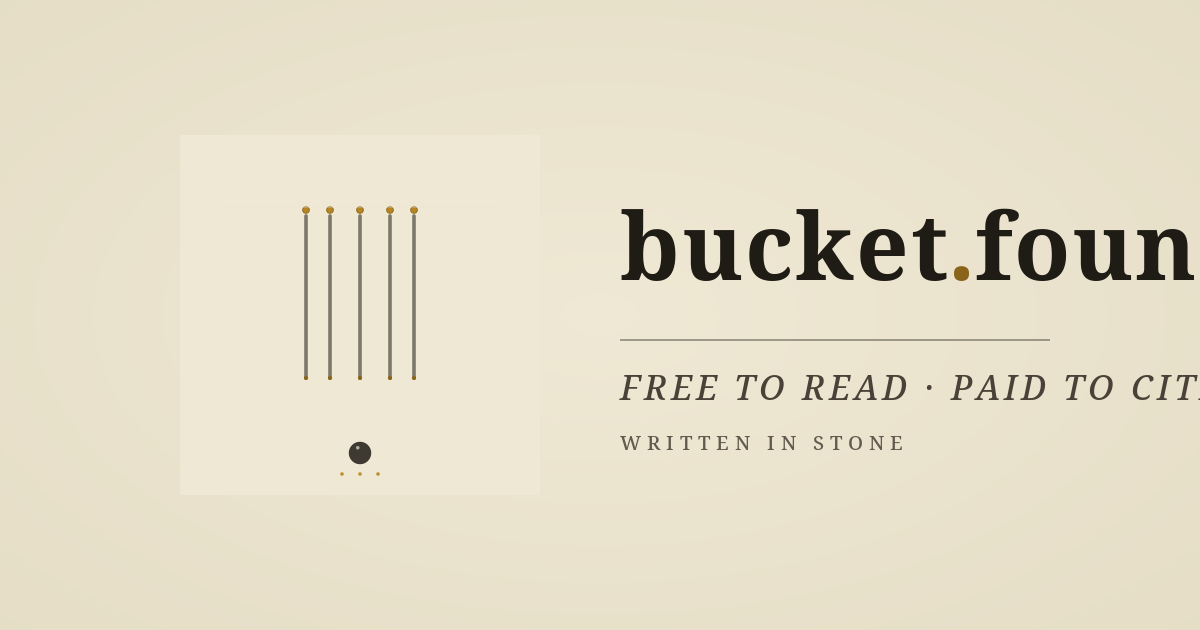
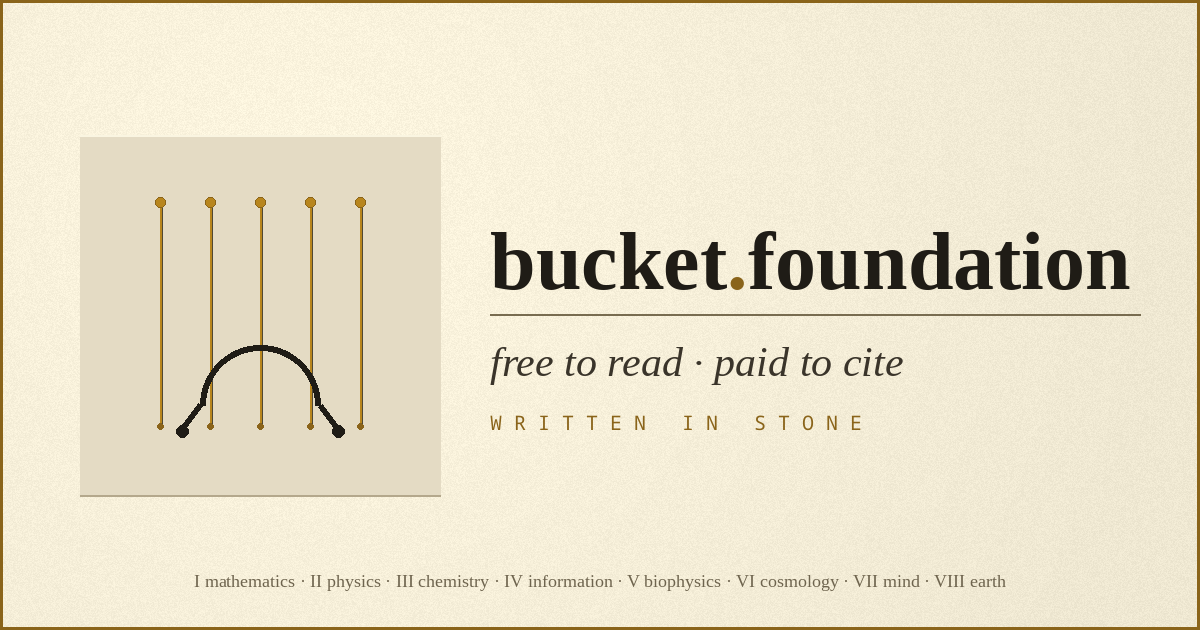
fix(meta): OG/Twitter share image — full wordmark fits, canon branches rail
- Regenerate opengraph-image.png + twitter-image.png at 1200x630
  with wordmark auto-sized to 82px so "bucket.foundation" fits inside
  the frame (previously cut off at "bucket.foun")
- Add inverse-omega-lyre logo on left plinth, tagline rule + italic
  "free to read · paid to cite", "written in stone" caption, and
  8-branch canon rail at bottom
- layout.tsx: drop explicit openGraph.images / twitter.images arrays
  (pointed to /opengraph-image.png at public-root, which doesn't
  exist, and /brand/tagline-stone.png, also missing). Next.js 14
  auto-wires src/app/opengraph-image.png + twitter-image.png via
  file convention — cleaner and actually correct.
- gitignore gtm/video-v*/ (build artifacts mirror to gdrive, not git)
- BEAD_BACKLOG.md: 11 beads across bucket-foundation +
  x402-research-gateway + feed402 to unblock external dev
  participation (P1 chain: host gateway, real wallet, wire /research,
  /build landing)

diff --git a/src/app/layout.tsx b/src/app/layout.tsx
@@ -81,29 +81,14 @@ export const metadata: Metadata = {
     title: `${SITE_NAME} — ${TAGLINE}`,
     description: DESCRIPTION,
     locale: "en_US",
-    images: [
-      {
-        url: "/opengraph-image.png",
-        width: 1200,
-        height: 630,
-        alt: "bucket.foundation — the golden omega-lyre carved in aegean stone · free to read, paid to cite",
-        type: "image/png",
-      },
-      {
-        url: "/brand/tagline-stone.png",
-        width: 1536,
-        height: 1024,
-        alt: "FREE TO READ / PAID TO CITE — carved in bone limestone with hot-gold inlay",
-        type: "image/png",
-      },
-    ],
+    // opengraph-image.png at src/app/ is auto-wired by Next.js file convention
   },
   twitter: {
     card: "summary_large_image",
     title: `${SITE_NAME} — ${TAGLINE}`,
     description: DESCRIPTION,
     creator: "@gianyrox",
-    images: ["/twitter-image.png"],
+    // twitter-image.png at src/app/ is auto-wired by Next.js file convention
   },
   robots: {
     index: true,

diff --git a/BEAD_BACKLOG.md b/BEAD_BACKLOG.md
@@ -1,0 +1,87 @@
+# Bead Backlog — "Make the Stack Participable"
+
+Filed 2026-04-23. Nucleus API currently 401'd on `/api/portfolio/dispatch` (nginx basic-auth rejecting founder creds — see CLAUDE.md Strategic Priority "bkt-epic-infra"). These will be filed via `bd-remote` once that's unblocked. Priority 1 = blocker for external-dev / agent participation.
+
+## Stack Reality Check (what works, what doesn't — 2026-04-23)
+
+| Component | State | Blocker for external participation? |
+|-----------|-------|-------------------------------------|
+| bucket.foundation site | ✅ live at www.bucket.foundation, v0.2.0, mobile-responsive | No |
+| bucket-foundation repo | ✅ public (github.com/bucket-foundation/bucket-foundation) | Needs CONTRIBUTING + .env.example + dev quickstart |
+| feed402 spec + ref impl | ✅ public (gianyrox/feed402), boots locally, manifest valid | Wallet=0x000…, no hosted demo, no Docker one-liner |
+| x402-research-gateway | ✅ public code (gianyrox/x402-research-gateway), compiles | **Not hosted anywhere.** No agent can actually pay the rail. |
+| Viatika vendor integration | ✅ vendor live, we're a customer | Not ours to ship |
+| Story Protocol / Walrus mint path | ❓ code exists, no docs for canon submitters | Submission path unclear |
+
+**Blocking chain:** external dev watches demo video → goes to bucket.foundation → wants to try feed402 → no hosted endpoint to hit → bounces.
+
+---
+
+## Bucket Foundation repo (4 beads)
+
+### bkt-cont-01 · P2 · CONTRIBUTING.md for external devs (canon + code paths)
+Two contribution paths: (1) code PRs to the Next.js site, (2) canon submissions via Story Protocol IP NFT mint. Doc setup (`npm i`, `npm run dev`, env vars for Dynamic/Supabase/Story), canon submission criteria (axioms/laws/primary derivations only, not outcomes), MIT/CC0 licensing expectations. Link from README.
+
+### bkt-cont-02 · P2 · README dev quickstart + stack diagram
+Current README is mission-heavy, no dev quickstart. Add: clone → `npm i` → copy `.env.example` → `npm run dev` → localhost:3000. Stack diagram (Next14 + Dynamic + Supabase + Story Protocol + Walrus + Viatika). Badges (MIT, CC0 spec, Vercel, Next14).
+
+### bkt-cont-03 · P2 · .env.example committed + secrets documented
+No `.env.example` in repo. External devs have no clue which env vars are required. Ship: `NEXT_PUBLIC_DYNAMIC_ENV_ID`, `SUPABASE_URL`, `SUPABASE_ANON_KEY`, `STORY_RPC_URL`, `WALRUS_*` — placeholder values, link to where to get each key.
+
+### bkt-cont-04 · **P1** · Wire bucket.foundation → x402-research-gateway live demo
+Site talks about feed402/x402 citation protocol but has no live wire-up. Add `/research` page or widget that issues a real feed402 query against the hosted gateway (depends on `x402-gw-deploy-01`) and renders the cited envelope. Proves "claude is always doing research for me" concretely.
+
+---
+
+## x402-research-gateway repo (3 beads)
+
+### x402-gw-deploy-01 · **P1** · Host at x402-research.agfarms.dev
+**Gateway only runs locally — biggest blocker in the whole stack.** Repo has `Caddyfile`, `docker-compose.prod.yml`, `deploy.sh` — wire them up. Needs:
+- DNS record: `x402-research.agfarms.dev` → Hetzner CPX42 IP
+- K3s manifest in a new namespace (or Caddy standalone)
+- Base Sepolia wallet key in K8s secret (fund with ~$5 USDC)
+- Caddy ACME for TLS
+- Health check: `GET /.well-known/feed402.json` returns 200
+Without this, no external agent can pay the rail and the demo video promise is a lie.
+
+### x402-gw-docs-01 · P2 · Agent-builder quickstart in README
+Current README is internal-facing. Write "build an agent against this gateway in 5 min": manifest URL, auth pattern, raw/query/insight tier trade-offs, cURL + TypeScript + Python examples hitting `/insight` with a Base wallet sig. Link from `bucket.foundation/research`.
+
+### x402-gw-ci-01 · P2 · GitHub Actions: build + e2e on PR
+No CI. Add workflow: `go build`, unit tests, boot server + hit `/.well-known/feed402.json`, verify schema compliance against feed402/0.2. Required for external PRs to be reviewable + mergeable.
+
+---
+
+## feed402 repo (3 beads)
+
+### feed402-wallet-01 · **P1** · Configure real Base Sepolia wallet in demo manifest
+Current manifest wallet = `0x0000…0000`. Demo claims payment but goes nowhere. Burn a Base Sepolia test wallet into demo config + fund it with ~$5 USDC. Alternative: `DEMO_MODE=1` flag that fakes settlement with a clear `DEMO` banner in the receipt. Pick the real-wallet path for credibility.
+
+### feed402-sync-01 · P3 · AGFarms/feed402 fork sync + CONTRIBUTING
+AGFarms org fork exists but may drift from `gianyrox/feed402`. Set up daily upstream-sync workflow. Add `CONTRIBUTING.md`: spec changes = CC0, ref impl = MIT, bead-first rule for AGFarms-origin changes.
+
+### feed402-docker-01 · P3 · `demo.sh` one-command Docker path
+`demo.sh` requires node>=20 + `npm install`. Ship `Dockerfile` + `docker run farmera/feed402` one-liner. Lower barrier for evaluators to literal zero. Publish to Docker Hub.
+
+---
+
+## Cross-cutting / landing (1 bead)
+
+### bkt-build-01 · P2 · `/build` landing page at bucket.foundation
+New `/build` page: "integrate bucket in 10 min". Three paths:
+1. **Run an agent** against the research gateway (code snippet + npx one-liner)
+2. **Become a data merchant** via feed402 (clone template → fill manifest → push)
+3. **Contribute a canon entry** (Story Protocol mint flow)
+
+Each path: code snippet + repo link + expected output. Ties all three repos together so devs see the full stack. Link from header nav + demo video CTA.
+
+---
+
+## Priority-1 chain (do in this order)
+
+1. `x402-gw-deploy-01` — host the gateway (unblocks everything)
+2. `feed402-wallet-01` — real wallet in demo
+3. `bkt-cont-04` — wire bucket.foundation → live gateway
+4. `bkt-build-01` — `/build` landing
+
+After that ladder is green, an external dev can watch the demo, hit `/build`, clone one repo, and have a working agent in <10 min.
